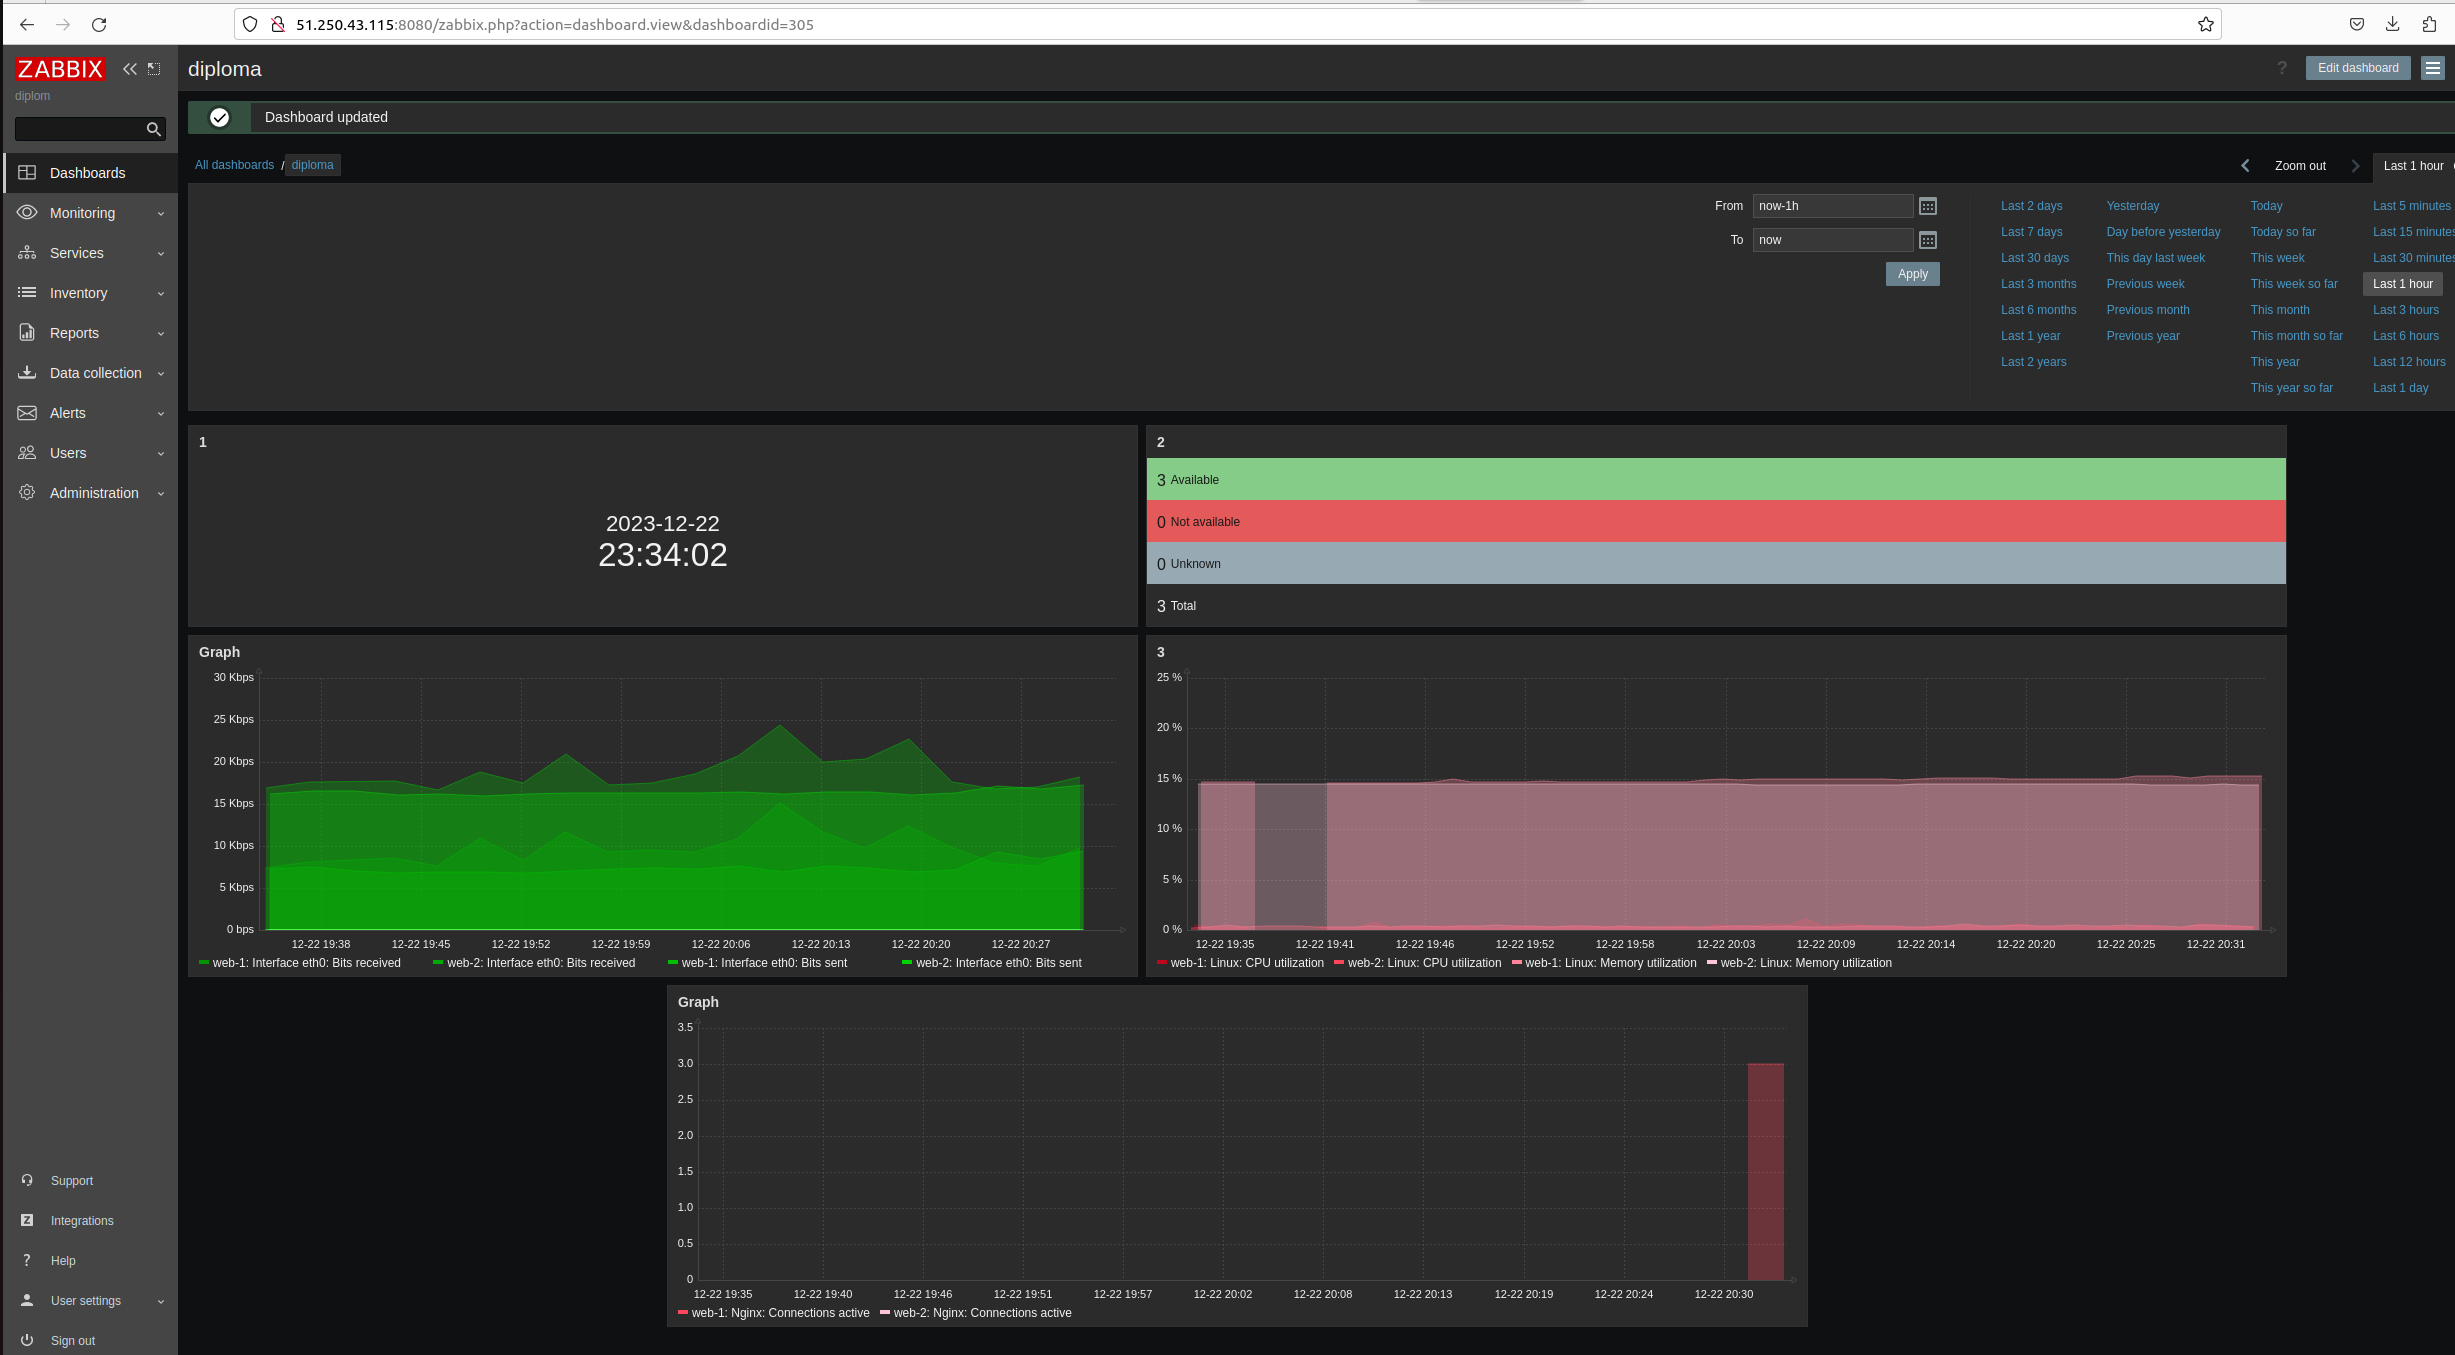
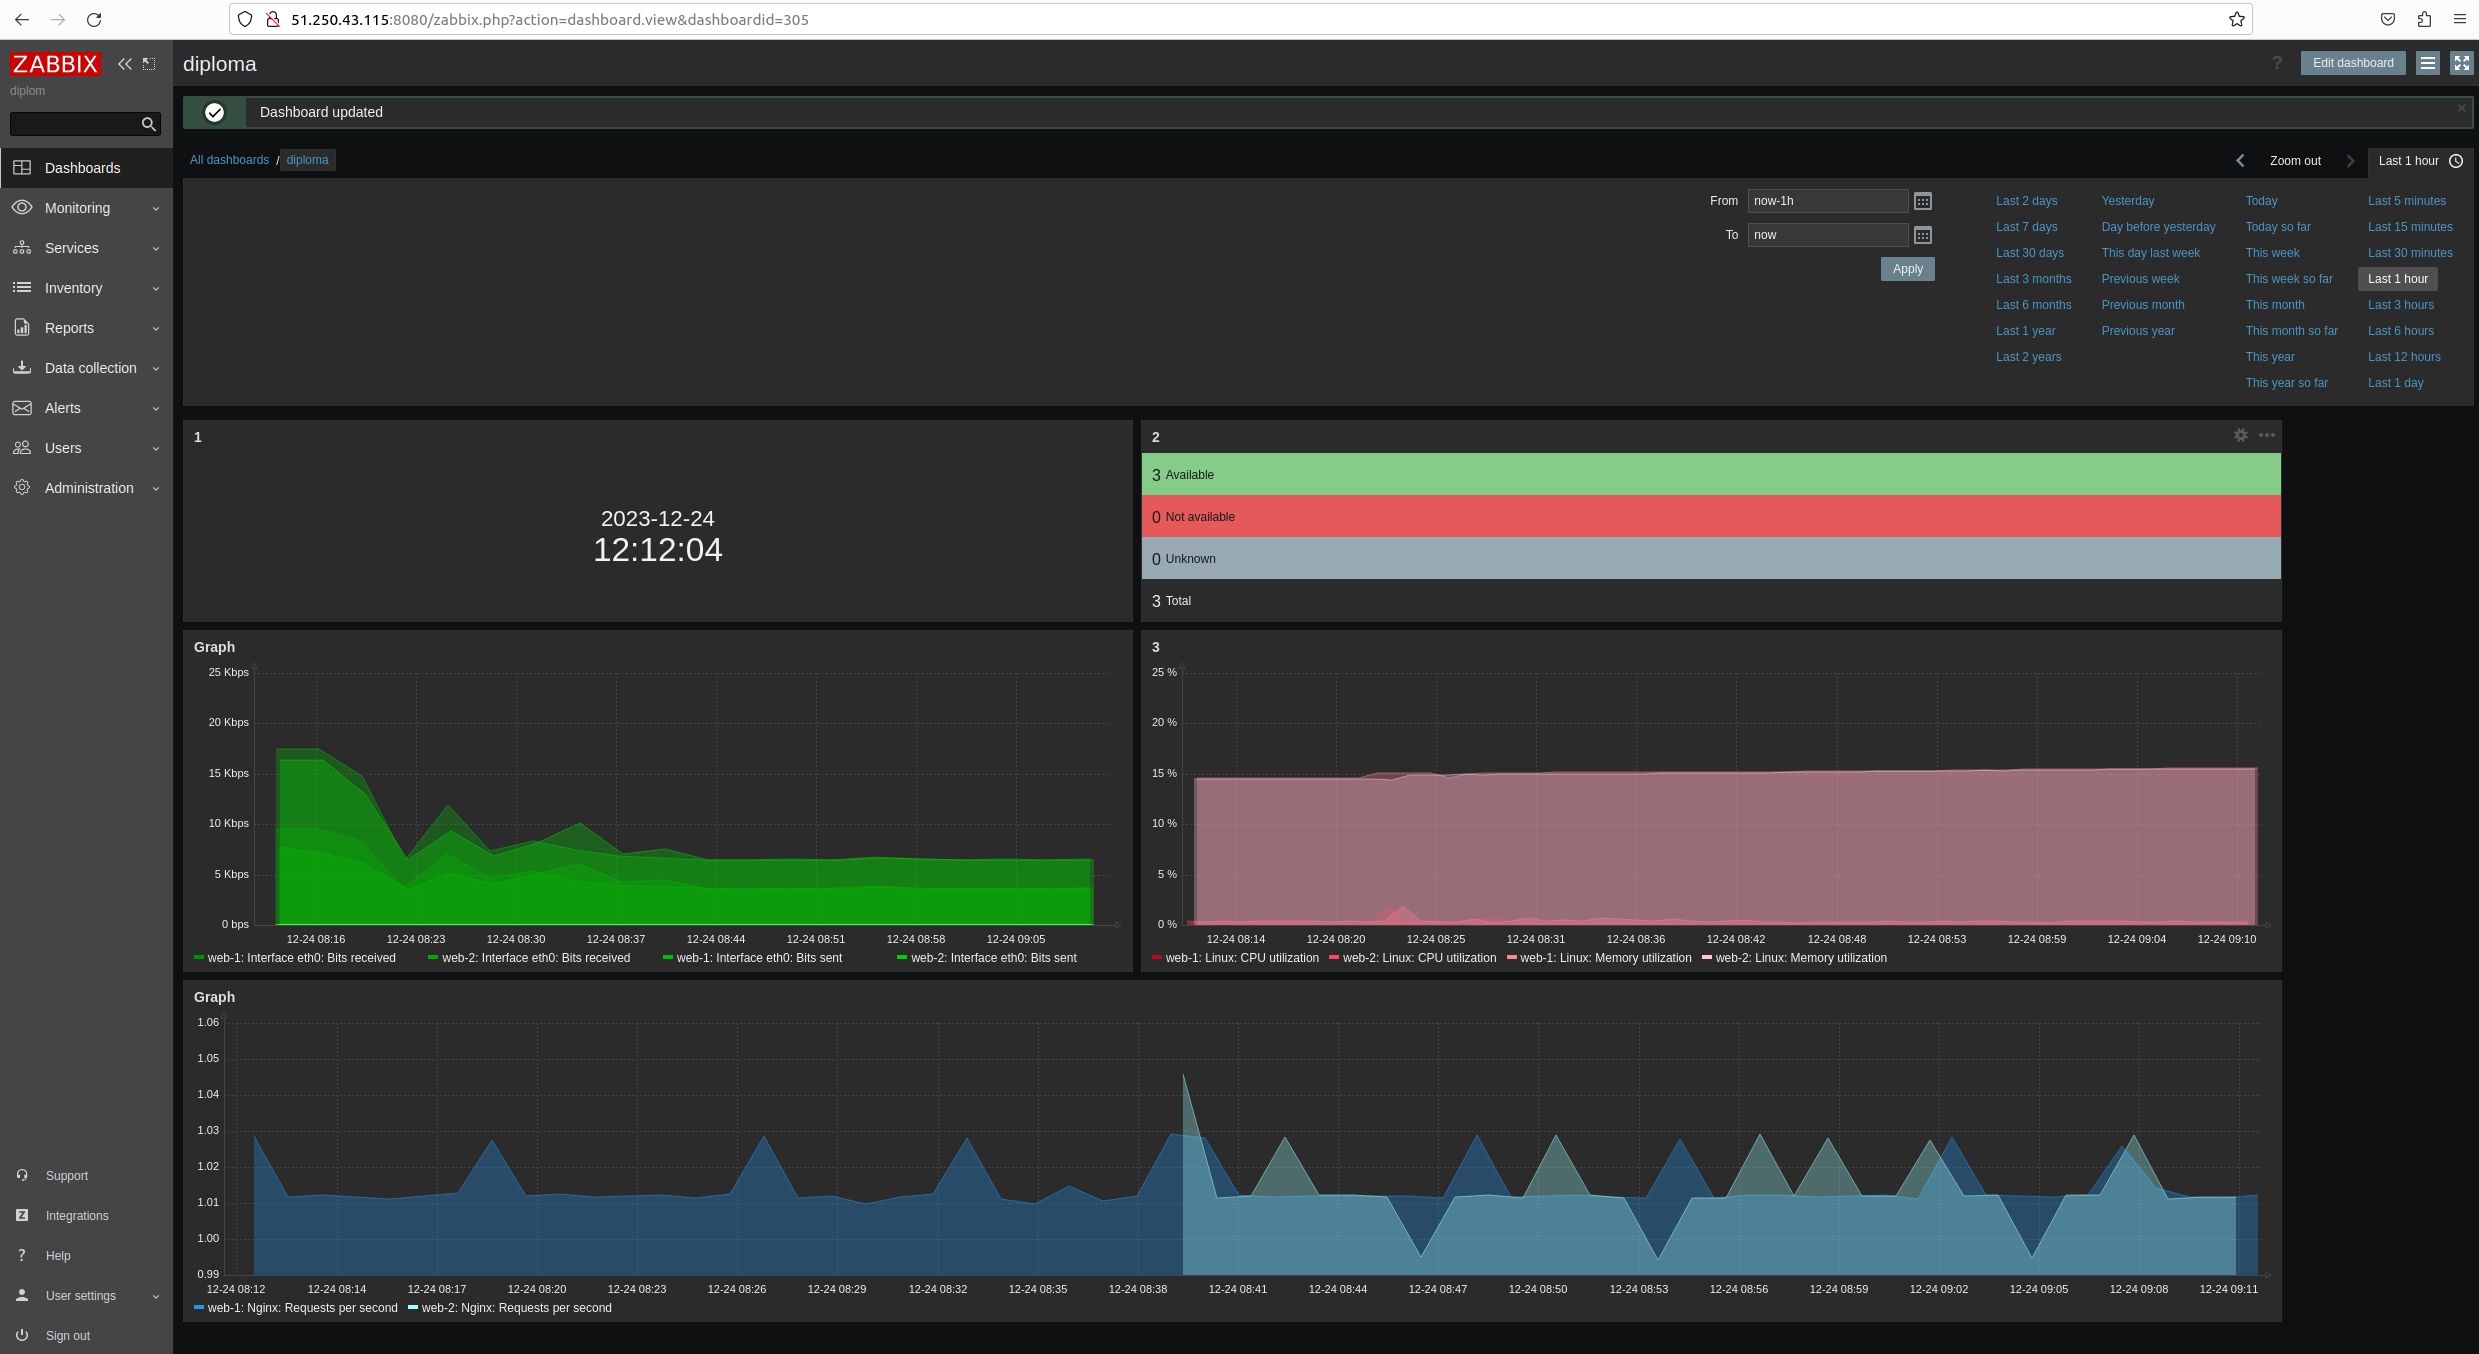
8

Changed region(s): [[0.0, 0.0, 1.0, 0.9926], [0.2477, 0.3722, 0.3096, 0.4343], [0.0, 0.8685, 0.031, 0.9926]]

diff --git a/README.md b/README.md
@@ -6,7 +6,9 @@
 2.С ключом разобрался, оказалось, что в итоге копировал не тот ключ...  
 3.Доступ к Zabbix по ссылке: http://51.250.43.115:8080 Логин Admin, пароль: zabbix  
 4.ELK доступен по сслылке: http://51.250.43.37:5601  
-5.Дэшборд nginx добавил:
+
+
+5***. Настроил конфиги nginx и его модуля stub на ВМ web-1 и web-2. График requests per second добавил:
 <img src = "files/zabbixnginx.png" width = 100%>
 
 *******************************************  
